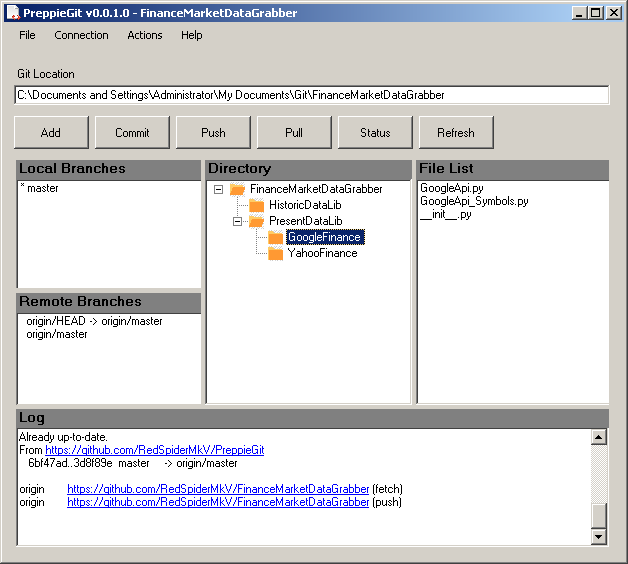
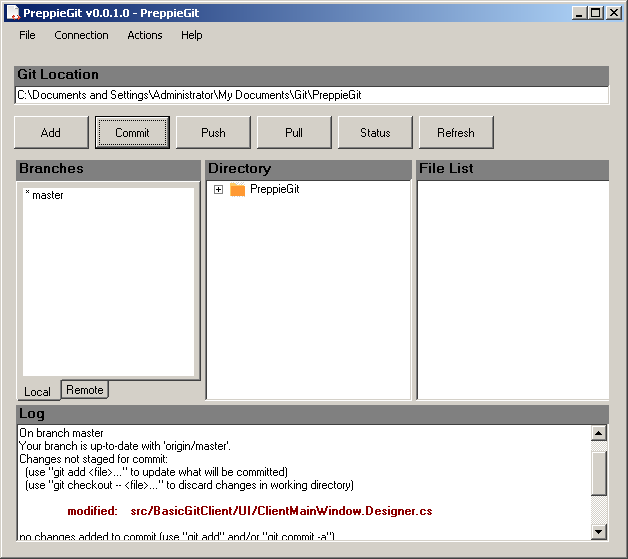
screenshot and label for git location update

diff --git a/src/BasicGitClient/UI/ClientMainWindow.Designer.cs b/src/BasicGitClient/UI/ClientMainWindow.Designer.cs
@@ -54,10 +54,13 @@
             // 
             // label1
             // 
-            this.label1.AutoSize = true;
-            this.label1.Location = new System.Drawing.Point(10, 44);
+            this.label1.Anchor = ((System.Windows.Forms.AnchorStyles)(((System.Windows.Forms.AnchorStyles.Top | System.Windows.Forms.AnchorStyles.Left)
+                        | System.Windows.Forms.AnchorStyles.Right)));
+            this.label1.BackColor = System.Drawing.SystemColors.ButtonShadow;
+            this.label1.Font = new System.Drawing.Font("Microsoft Sans Serif", 9.75F, System.Drawing.FontStyle.Bold, System.Drawing.GraphicsUnit.Point, ((byte)(0)));
+            this.label1.Location = new System.Drawing.Point(10, 43);
             this.label1.Name = "label1";
-            this.label1.Size = new System.Drawing.Size(64, 13);
+            this.label1.Size = new System.Drawing.Size(595, 19);
             this.label1.TabIndex = 13;
             this.label1.Text = "Git Location";
             // 
